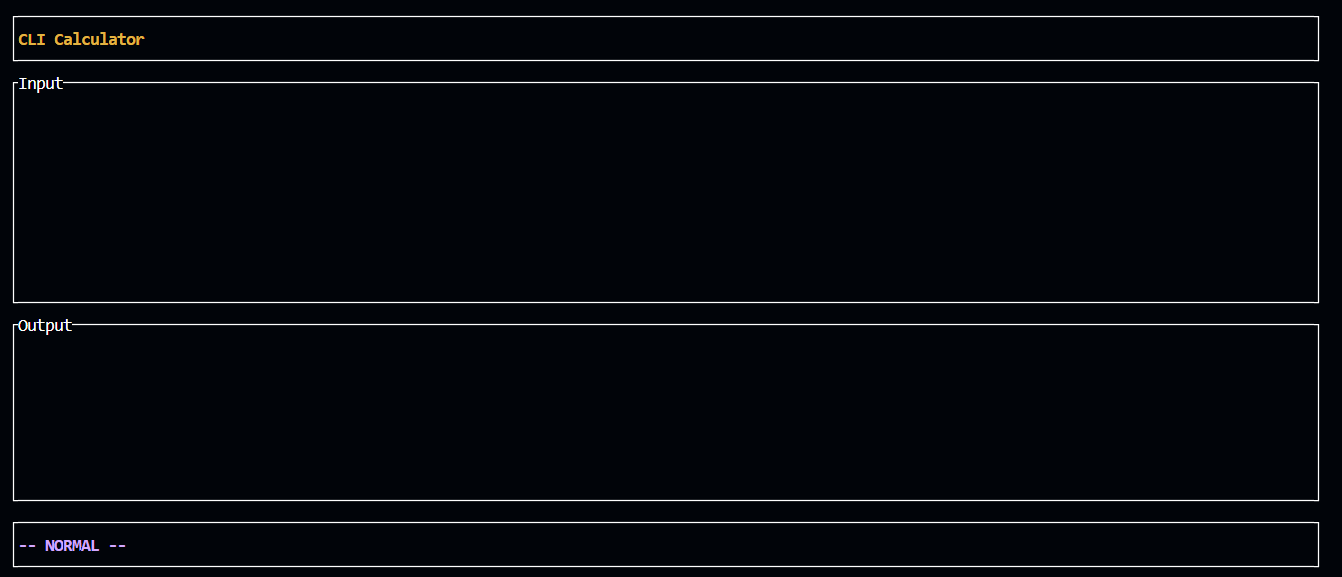
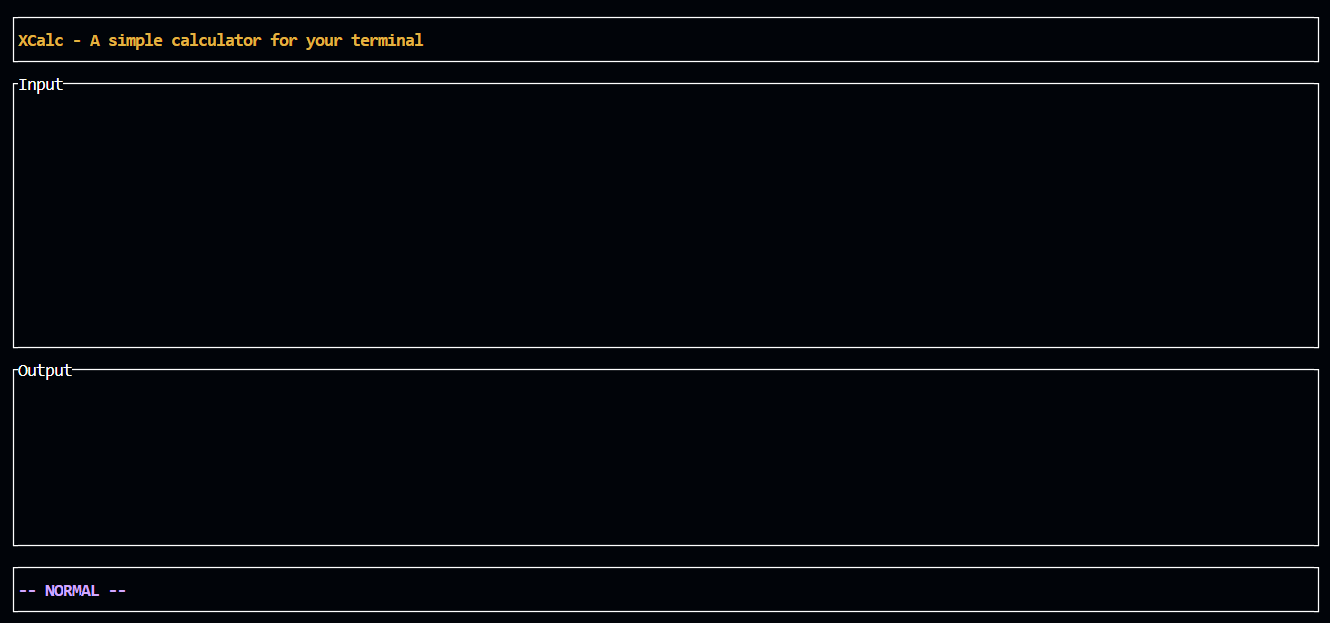
title

Changed region(s): [[0.0, 0.0, 1.0, 0.9983], [0.9865, 0.0312, 1.0, 0.0936]]

diff --git a/src/ui.rs b/src/ui.rs
@@ -45,7 +45,7 @@ pub fn draw_ui<B: Backend>(
             .fg(Color::Yellow)
             .add_modifier(Modifier::BOLD);
         let title_border_style = Style::default().fg(Color::White);
-        let title = Paragraph::new(Span::styled("CLI Calculator", title_style))
+        let title = Paragraph::new(Span::styled("XCalc - A simple calculator for your terminal", title_style))
             .block(Block::default().borders(Borders::ALL).border_style(title_border_style));
 
         let cursor_position = input.len();
